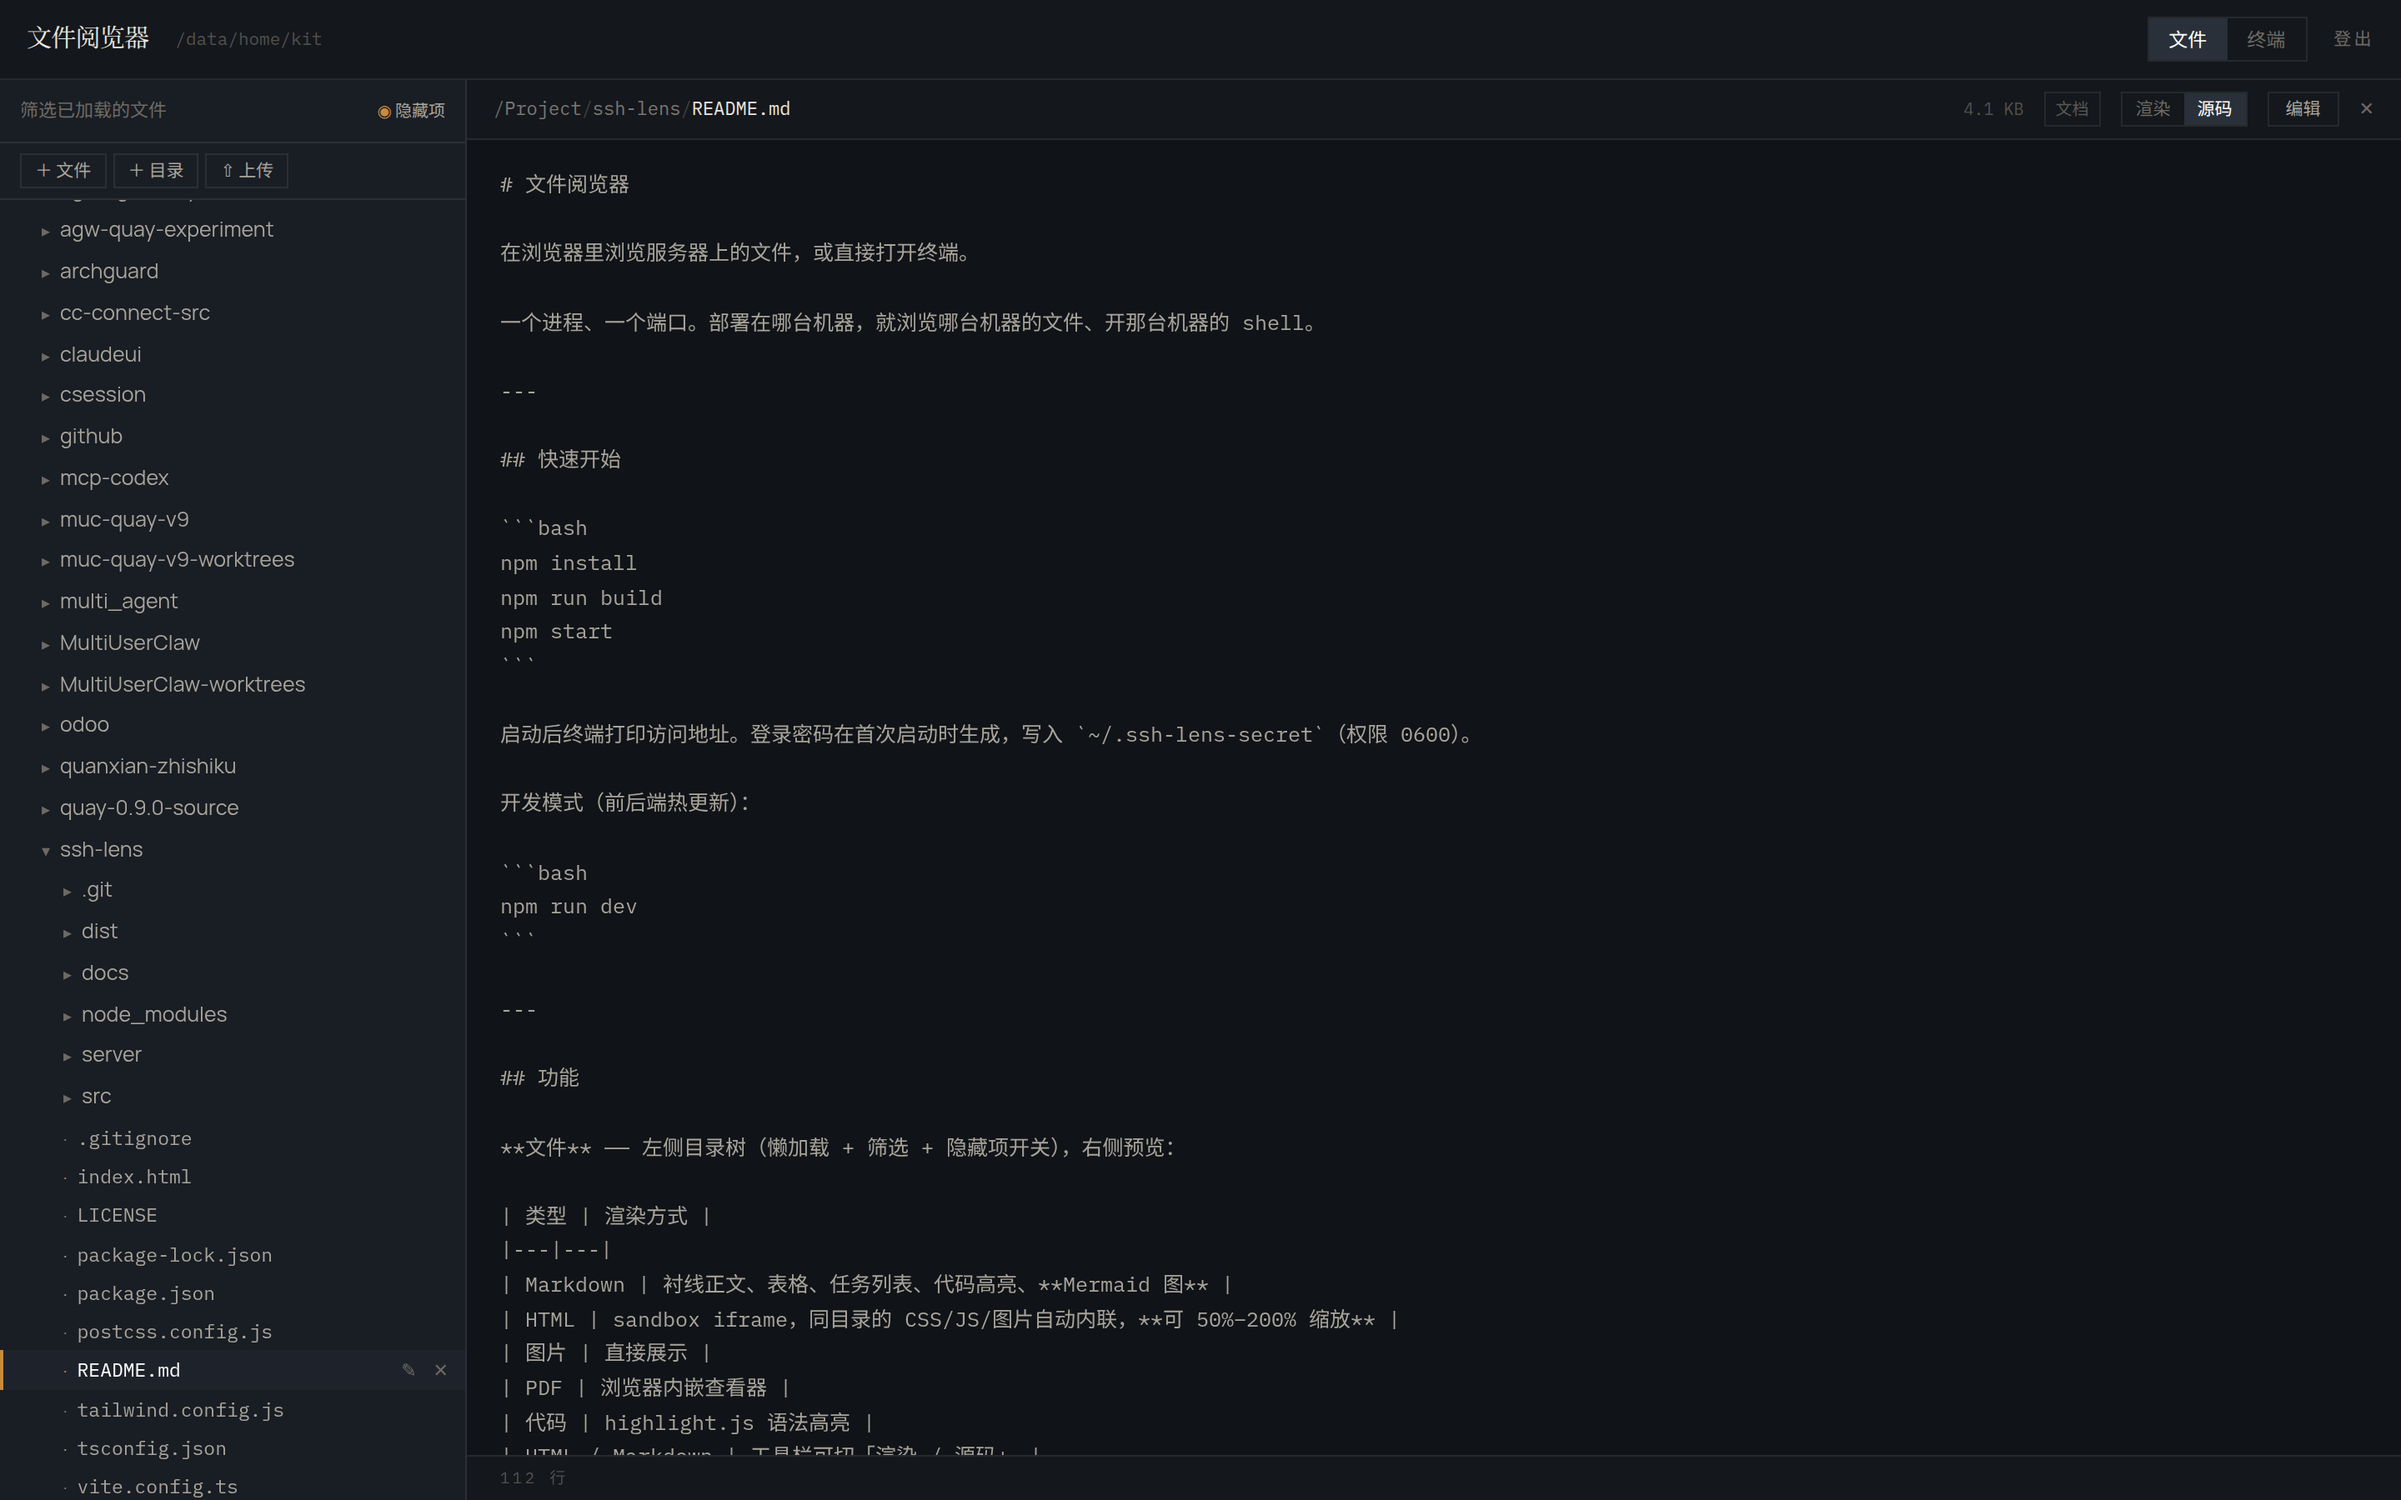
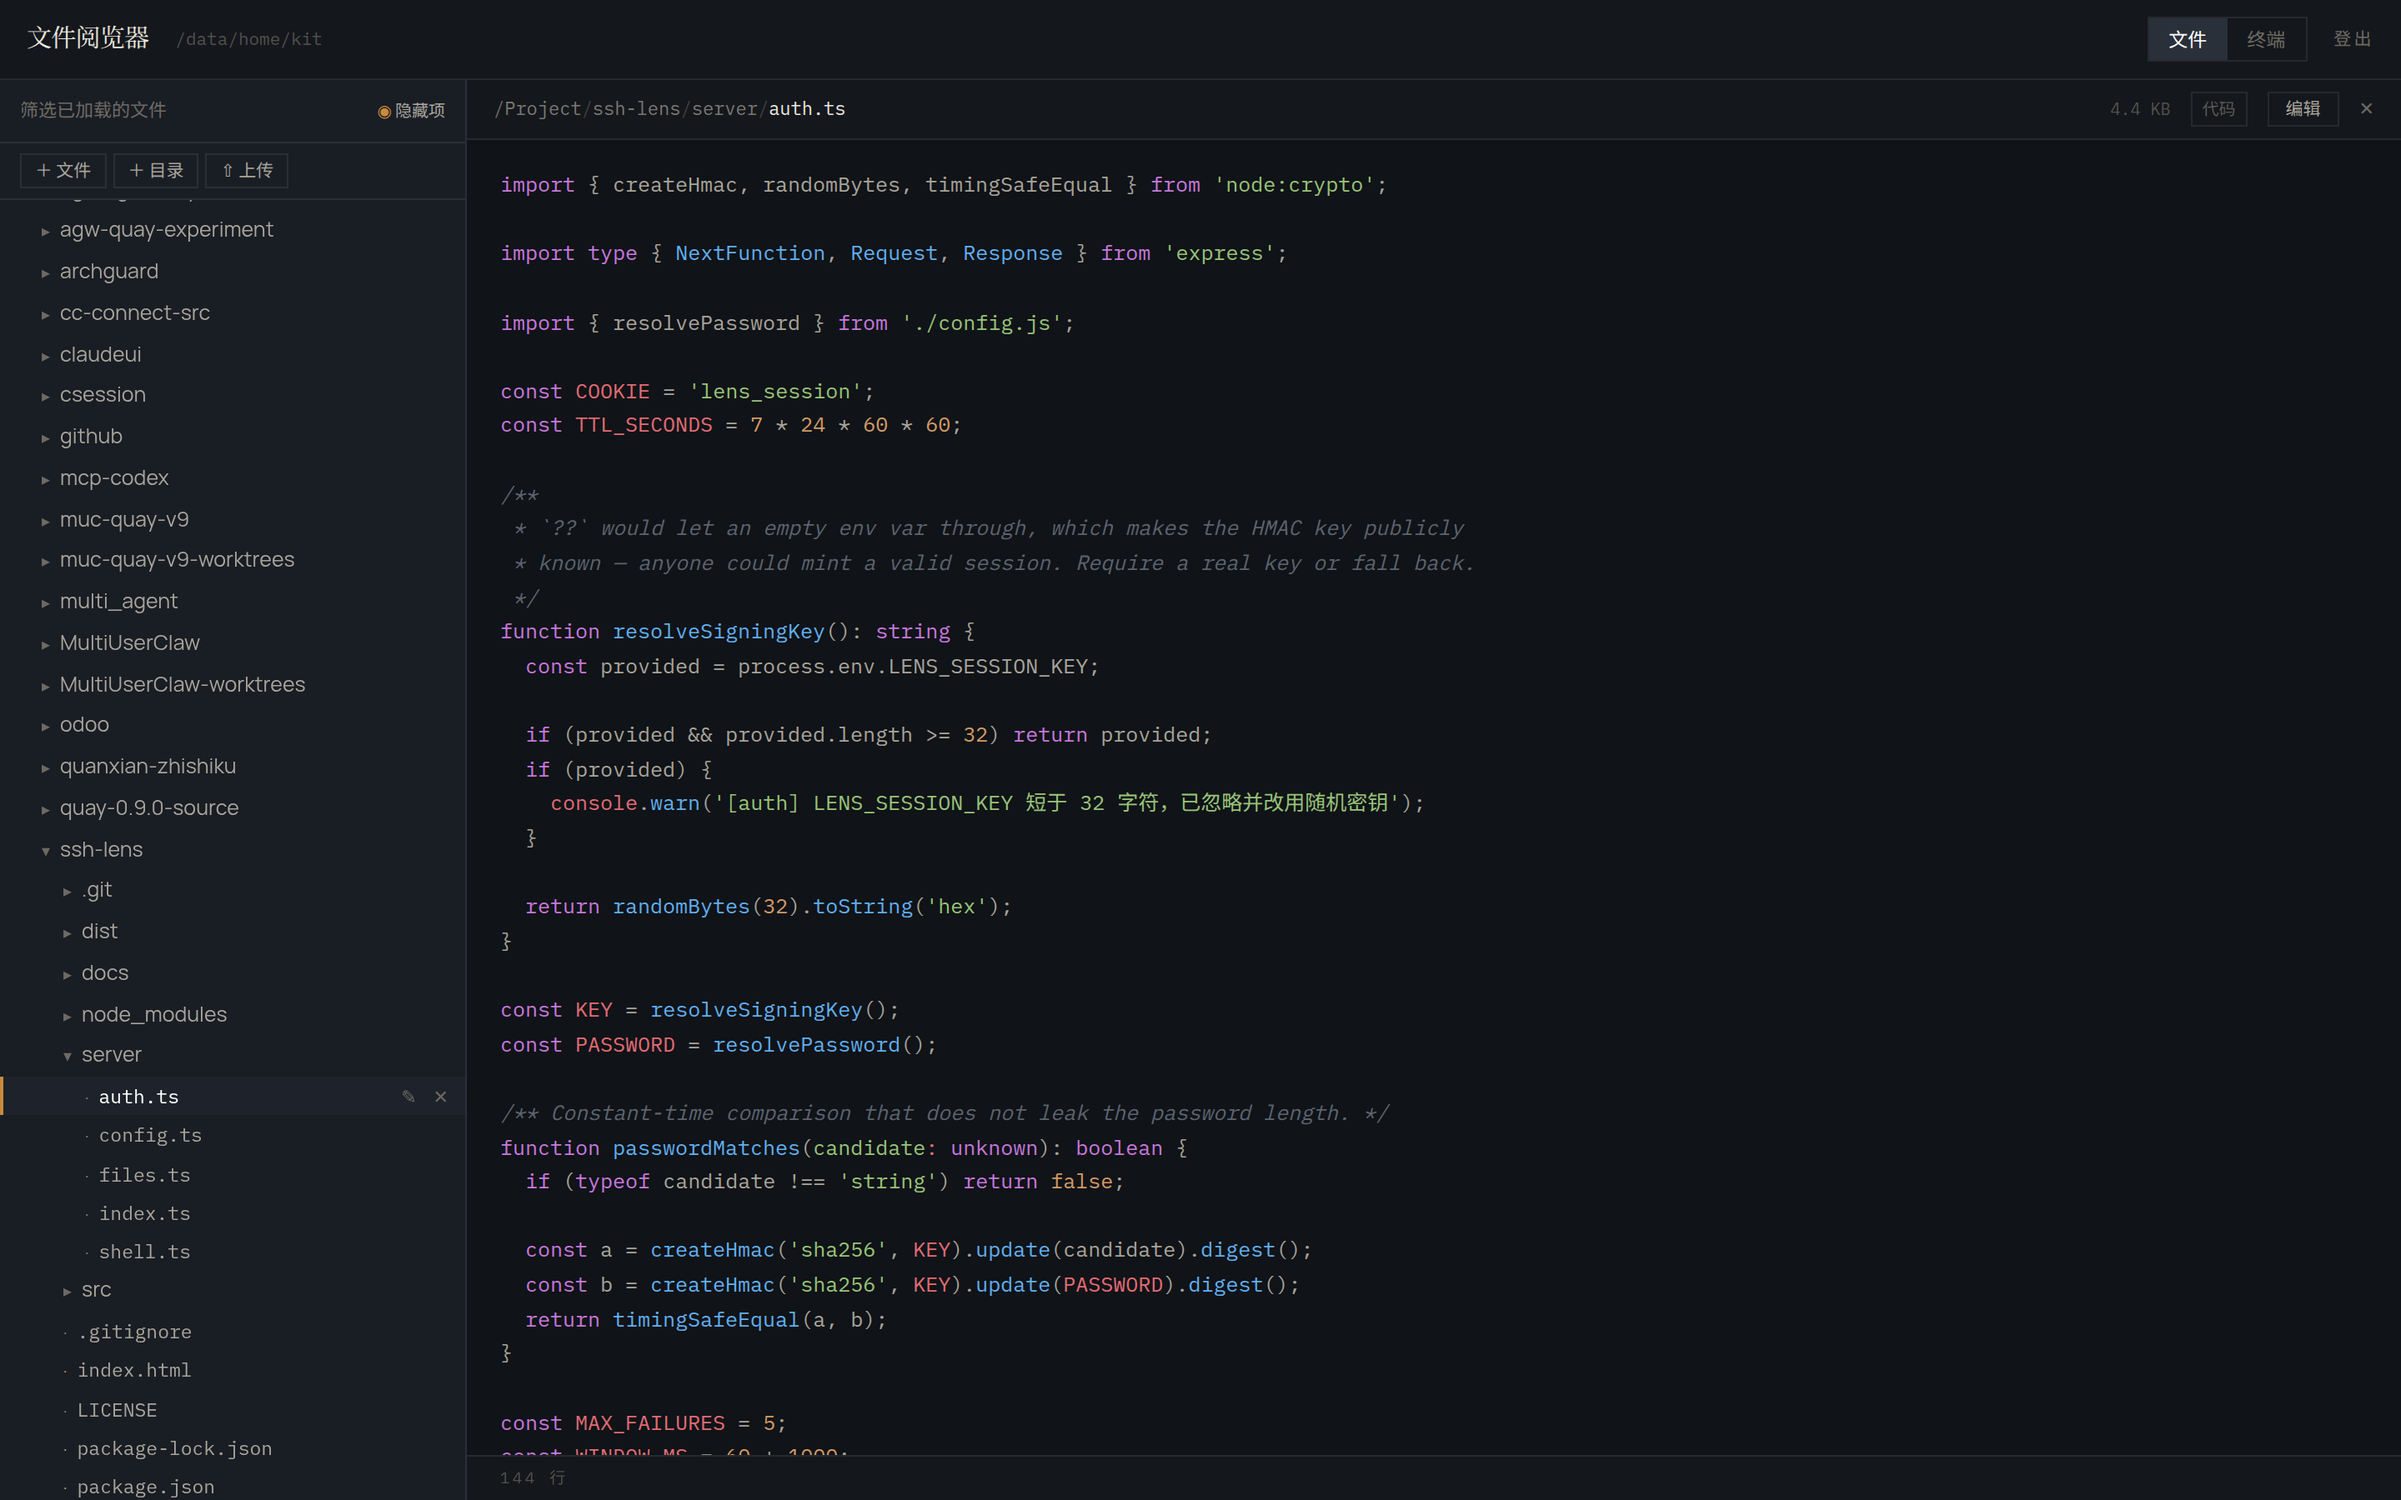
修复只读视图的代码高亮，README 补充远程访问与 AI 编码场景
代码高亮此前不生效：hljs-* 类由 highlighter 在运行时生成，构建时
扫不到，放在 @layer components 里会被 Tailwind 当作无用规则清除。
移到普通 CSS 后生效，配色与编辑器的 oneDark 对齐。

README 新增：
- SSH 端口转发访问远程服务（含 ssh config 固化写法），替代直接暴露公网
- 配合服务器上 AI 编码工具的使用场景

diff --git a/src/styles.css b/src/styles.css
@@ -183,40 +183,6 @@
     border: 1px solid var(--rule);
   }
 
-  .hljs-keyword,
-  .hljs-selector-tag,
-  .hljs-built_in,
-  .hljs-type {
-    color: #c9915c;
-  }
-
-  .hljs-string,
-  .hljs-attr {
-    color: #a3b58a;
-  }
-
-  .hljs-number,
-  .hljs-literal {
-    color: #c47f7f;
-  }
-
-  .hljs-comment,
-  .hljs-quote {
-    color: #5d5f5a;
-    font-style: italic;
-  }
-
-  .hljs-function,
-  .hljs-title,
-  .hljs-section {
-    color: #d8c79f;
-  }
-
-  .hljs-variable,
-  .hljs-params {
-    color: #b9b4a7;
-  }
-
   .rise {
     animation: rise 380ms cubic-bezier(0.16, 1, 0.3, 1) both;
   }
@@ -261,4 +227,65 @@
   .terminal-host .xterm-viewport {
     background-color: transparent !important;
   }
+}
+
+/*
+ * highlight.js token colours live outside @layer on purpose: Tailwind only keeps
+ * classes it can find in the source files, and `hljs-*` is generated at runtime
+ * from the highlighter, so inside a layer every rule would be stripped.
+ * Colours mirror the editor's oneDark theme so both views agree.
+ */
+.hljs-keyword,
+.hljs-selector-tag,
+.hljs-built_in,
+.hljs-type,
+.hljs-tag {
+  color: #c678dd;
+}
+
+.hljs-string,
+.hljs-attr,
+.hljs-template-tag,
+.hljs-template-variable {
+  color: #98c379;
+}
+
+.hljs-number,
+.hljs-literal,
+.hljs-symbol {
+  color: #d19a66;
+}
+
+.hljs-comment,
+.hljs-quote {
+  color: #5c6370;
+  font-style: italic;
+}
+
+.hljs-function,
+.hljs-title,
+.hljs-section,
+.hljs-selector-id {
+  color: #61afef;
+}
+
+.hljs-variable,
+.hljs-params,
+.hljs-name {
+  color: #e06c75;
+}
+
+.hljs-meta,
+.hljs-doctag {
+  color: #7f848e;
+}
+
+.hljs-addition {
+  color: #98c379;
+  background: rgba(152, 195, 121, 0.1);
+}
+
+.hljs-deletion {
+  color: #e06c75;
+  background: rgba(224, 108, 117, 0.1);
 }

diff --git a/README.md b/README.md
@@ -42,6 +42,7 @@ SSH Lens 把两件事合成一个页面：**左边文件树，右边预览，右
 
 适合：
 
+- **在服务器上跑 AI 编码**（Claude Code / Codex / Cursor Agent），想在本地浏览器里看它改了什么
 - 想看服务器上某个 Markdown 报告 / HTML 页面 / 日志文件，但不想 `scp` 下载
 - 需要在手机上临时看一眼服务器文件
 - 想要一个比 `filebrowser` 更轻、自带终端和 Markdown 渲染的自托管文件管理器
@@ -124,6 +125,82 @@ npm run dev
 | `LENS_SESSION_KEY` | 随机 | 会话签名密钥，不设则重启后登录失效 |
 | `LENS_SHELL` | `/bin/bash` | 终端启动的 shell |
 | `LENS_SHELL_PASS_ENV` | 未设置 | 设为 `1` 让终端继承含凭据的环境变量 |
+
+---
+
+## 远程访问：用 SSH 隧道，别开公网
+
+代码在公网服务器上？**不要**设 `LENS_HOST=0.0.0.0` 把它暴露出去 —— 用 SSH 端口转发把它"拉"到本地。
+
+**服务器上**，保持默认（只监听本机）：
+
+```bash
+npm start          # 监听 127.0.0.1:7788
+```
+
+**本地电脑**，开一条隧道：
+
+```bash
+ssh -N -L 7788:127.0.0.1:7788 user@your-server
+```
+
+然后本地浏览器打开 **http://127.0.0.1:7788** 即可。
+
+`-N` 表示只建隧道、不执行远程命令，带宽开销几乎为零。
+
+### 固化到 ssh config（推荐）
+
+`~/.ssh/config` 加一段，以后 `ssh mydev` 就自动带隧道：
+
+```
+Host mydev
+  HostName 203.0.113.10
+  User ubuntu
+  LocalForward 7788 127.0.0.1:7788
+```
+
+```bash
+ssh mydev        # 连接同时建立隧道
+# 另开一个终端标签，浏览器访问 http://127.0.0.1:7788
+```
+
+### 为什么这样比开公网好
+
+| | SSH 隧道 | `LENS_HOST=0.0.0.0` |
+|---|---|---|
+| 服务是否监听公网端口 | 否 | 是 |
+| 密码 / cookie 是否明文过网 | 否（走 SSH 加密） | 是 |
+| 需要配 TLS / 域名 / 反代 | 不需要 | 需要 |
+| 被扫描器探测到的可能 | 无 | 有 |
+
+隧道本身用你已有的 SSH 密钥认证，等于给这个 Web 服务又加了一层身份验证。
+
+> 也可以用 **Tailscale**：服务端绑 `0.0.0.0`，但只在 Tailscale 网卡（`100.64.0.0/10`）上可达，效果一样且支持多设备。
+
+---
+
+## 配合服务器上的 AI 编码
+
+在远程服务器上跑 Claude Code / Codex / Cursor Agent 时，常见循环是：AI 改代码 → 你想确认改了什么 → 回终端翻文件。
+
+SSH Lens 把这个循环缩到最短：
+
+- **AI 改完文件，浏览器里刷新目录就能看到**，不用 `cat` 一个个翻
+- **直接预览 AI 产出的 Markdown 报告、HTML 页面、Mermaid 架构图**，渲染而不是读源码
+- **需要确认时，右上角切到终端**，用的就是 AI 那个 shell 环境，`git diff`、跑测试都在现场
+- 代码始终在服务器上跑，本地只需要一个浏览器 + 一条 SSH 隧道
+
+典型用法：
+
+```bash
+# 服务器上
+cd ~/my-project
+claude                 # AI 在服务器上工作
+
+# 另一个终端（或本地）
+ssh -N -L 7788:127.0.0.1:7788 user@your-server
+# 本地浏览器：文件页看改动，终端页看 AI 在跑什么
+```
 
 ---
 
